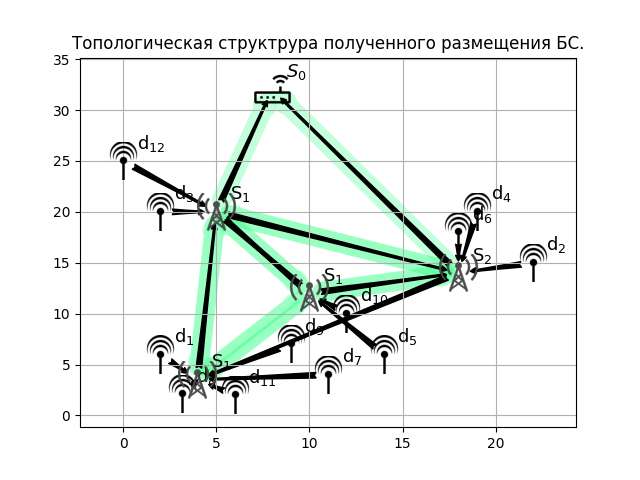
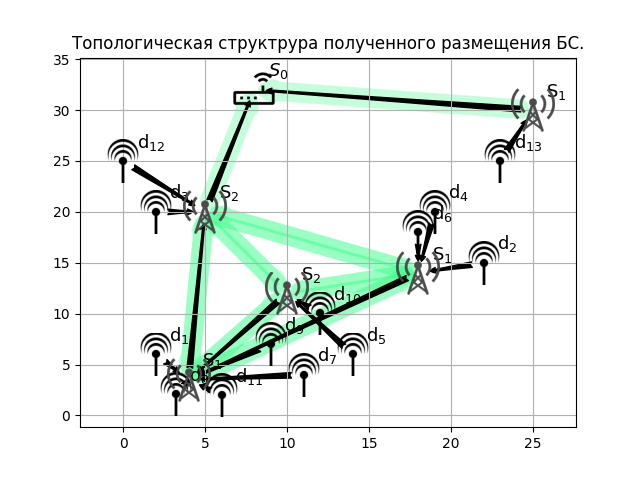
fixed checking link distance between sta's in Network

diff --git a/src/op/mipop.py b/src/op/mipop.py
@@ -318,17 +318,26 @@ class InequalityConstraints(Constraints):
         #     self.data.iloc[data_row, _column] = 1
         #     self.b[data_row] = 1
         a = 1
-        sta_keys = list(input_data.station.keys())
-        for k in range(0, len(sta_keys), len(input_data.type)):
-            data_row = self.counter()
-            for j in range(len(input_data.type)):
-                sta = sta_keys[k] + j
-                _col, = np.where(net.adj_matrix[sta, :] == 1)
-                _var_name = [f"y{sta}_{_col[i]}" for i in range(len(_col))]
-                _column, = np.where(np.in1d(self.var.name, _var_name))
-                self.data.iloc[data_row, _column] = 1
-            self.b[data_row] = 1
+        # sta_keys = list(input_data.station.keys())
+        # for k in range(0, len(sta_keys), len(input_data.type)):
+        #     data_row = self.counter()
+        #     for j in range(len(input_data.type)):
+        #         sta = sta_keys[k] + j
+        #         _col, = np.where(net.adj_matrix[sta, :] == 1)
+        #         _var_name = [f"y{sta}_{_col[i]}" for i in range(len(_col))]
+        #         _column, = np.where(np.in1d(self.var.name, _var_name))
+        #         self.data.iloc[data_row, _column] = 1
+        #     self.b[data_row] = 1
         a = 1
+        for i, j in self.var.edge_x:
+            data_row = self.counter()
+            _x_name = f"x{i}_{j}"
+            _col_x, =  np.where(np.in1d(self.var.name, _x_name))
+            self.data.iloc[data_row, _col_x] = 1
+            _y_name = f"y{i}_{j}"
+            _col_y, = np.where(np.in1d(self.var.name, _y_name))
+            self.data.iloc[data_row, _col_y] = -1 * input_data.station[i]["intensity"]
+            self.b[data_row] = 0
 
 
     def station_conditions(self, input_data, net) -> None:

diff --git a/src/net.py b/src/net.py
@@ -61,7 +61,6 @@ def create_graph(input_data: InputData) -> Network:
         - Station 2 Station; 
         - Station 2 Gateway.
     """
-
     # Device To Station
     for d2s in product(net.device.keys(), net.station.keys()):
         if net.exist_edge(net.device[d2s[0]]['coordinates'],
@@ -71,9 +70,13 @@ def create_graph(input_data: InputData) -> Network:
 
     # Station To Station
     for s2s in permutations(net.station.keys(), 2):
+        # if (s2s[0] == 22) and (s2s[1] == 19):
+        #     a = 1
+        param_min = min(net.station[s2s[0]]['link_distance'][s2s[1]],
+                        net.station[s2s[1]]['link_distance'][s2s[0]])
         if net.exist_edge(net.station[s2s[0]]['coordinates'],
                           net.station[s2s[1]]['coordinates'],
-                          net.station[s2s[0]]['link_distance'][s2s[1]]):
+                          param_min):
             net.graph.add_edge(s2s[0], s2s[1])
 
     # Station To Gateway

diff --git a/src/drawing/draw.py b/src/drawing/draw.py
@@ -159,6 +159,8 @@ def prepare_draw_graph(net: Network, problem: MIP, solution: pd.Series
 
     draw_link_distance_pos = {}
     for i, j in edge_x:
+        if (i == 22) and (j == 19):
+            a = 1
         if (i in net.station.keys()) and (i in pos.keys()):
             if (j in net.station.keys()) and (j in pos.keys()):
                 _distance = math.sqrt(

diff --git a/mip_solution.py b/mip_solution.py
@@ -104,7 +104,7 @@ def prepare_mip_input_data(data: Dict) -> InputData:
 
 
 if __name__ == "__main__":
-    with open("./input/problem_test_7.json") as f:
+    with open("./input/problem_test_8.json") as f:
         data_from_json = json.load(f)
 
     solver = "gurobi"
